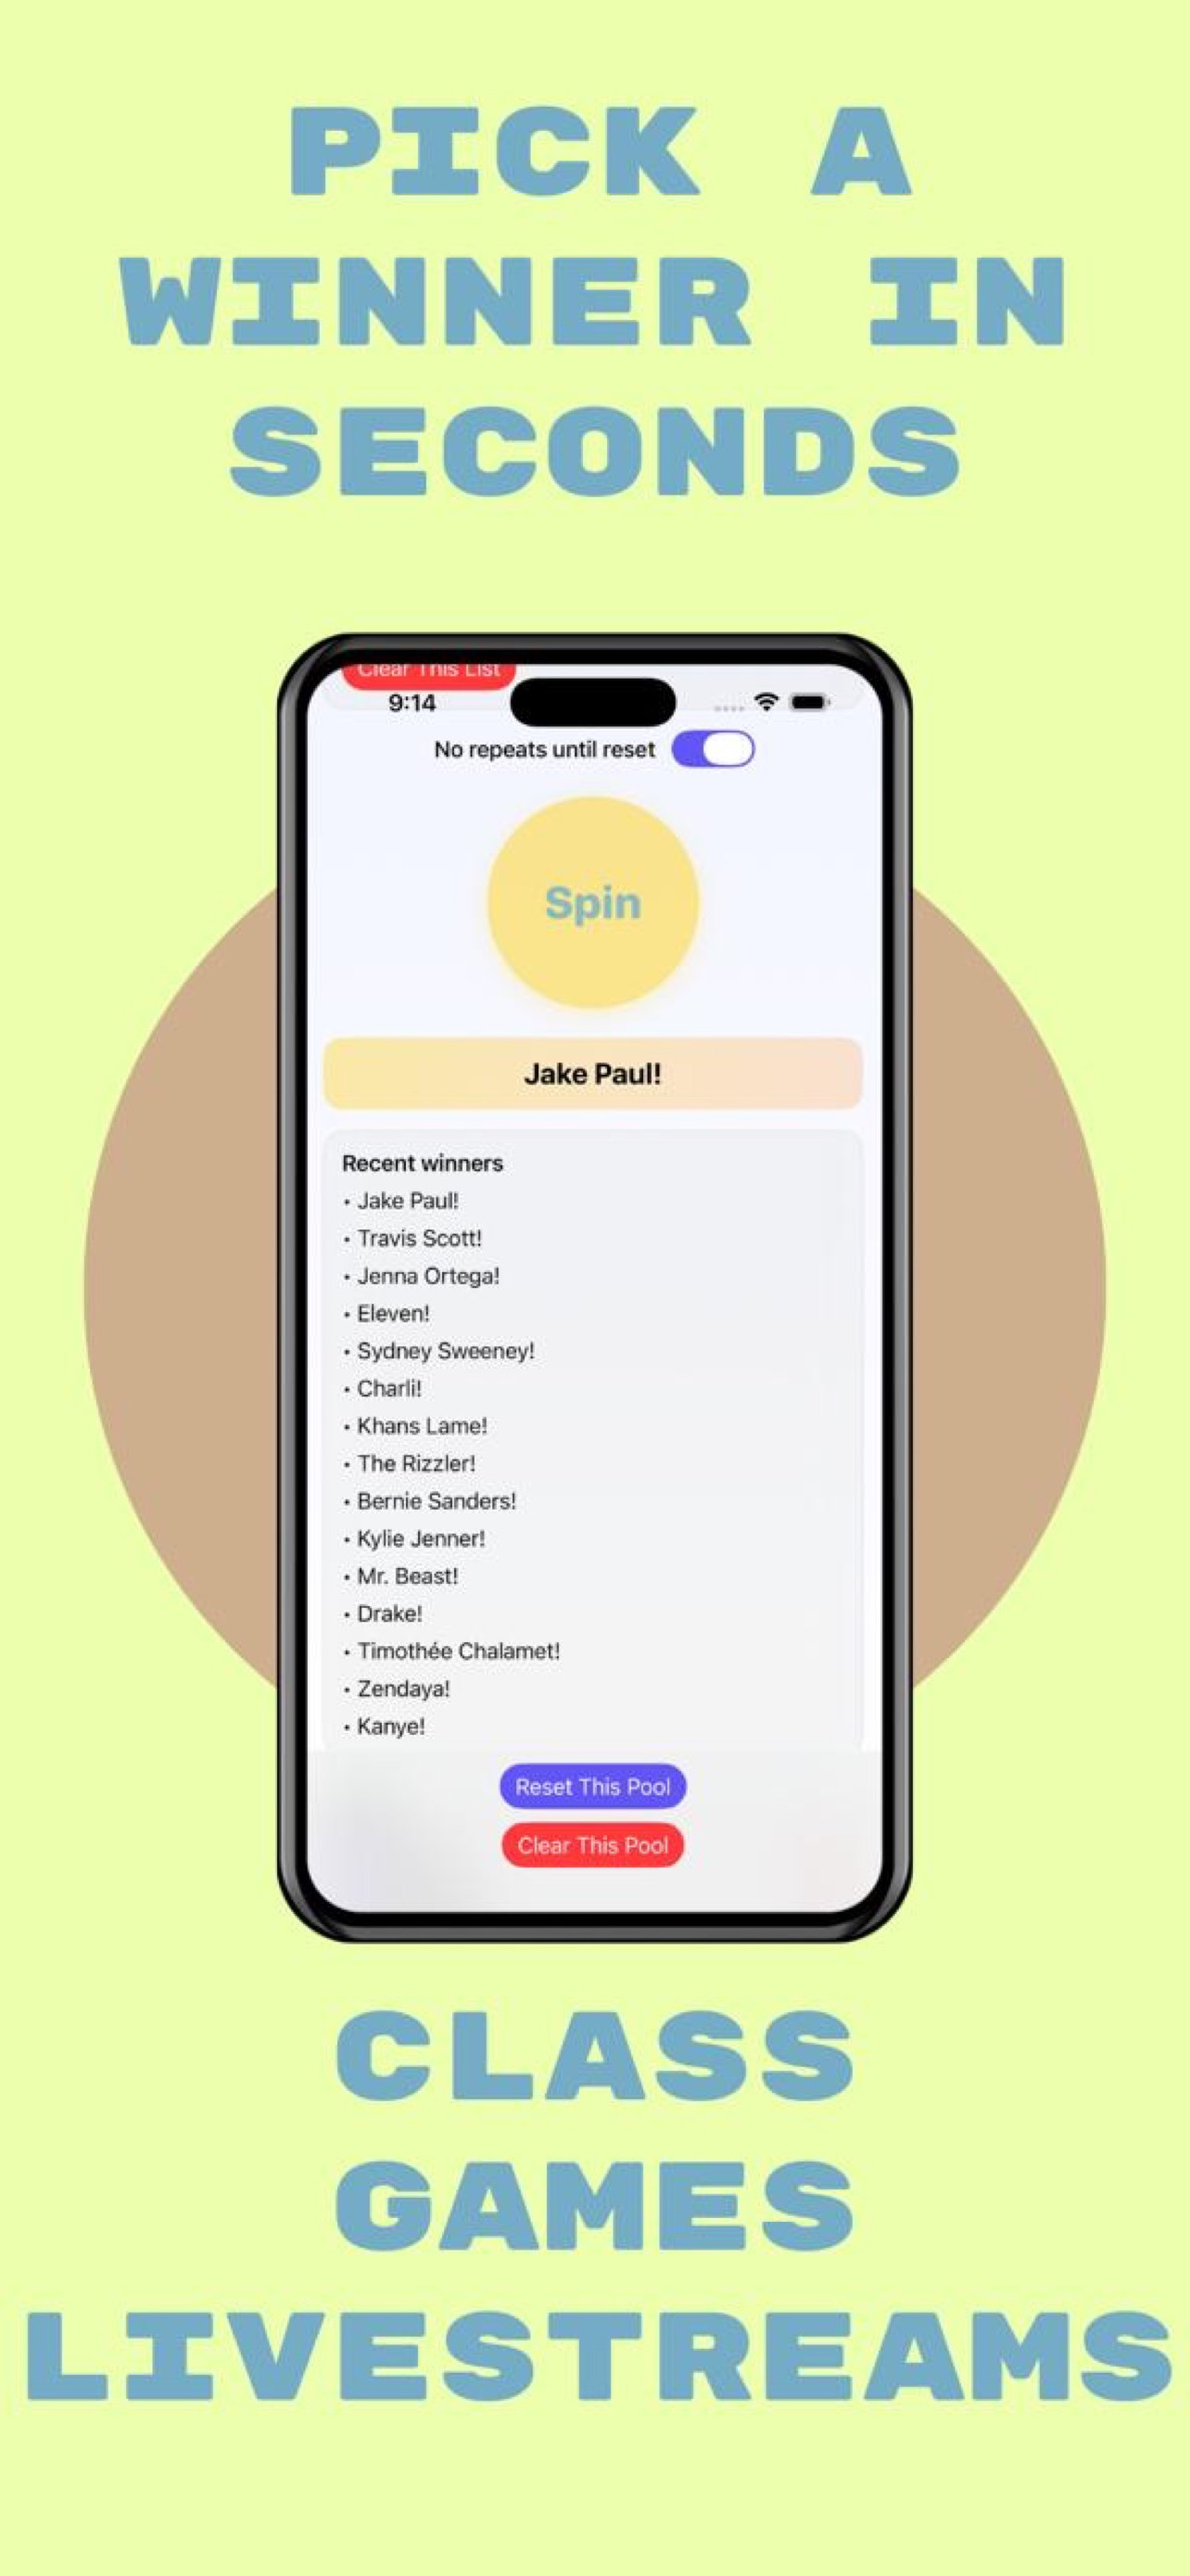
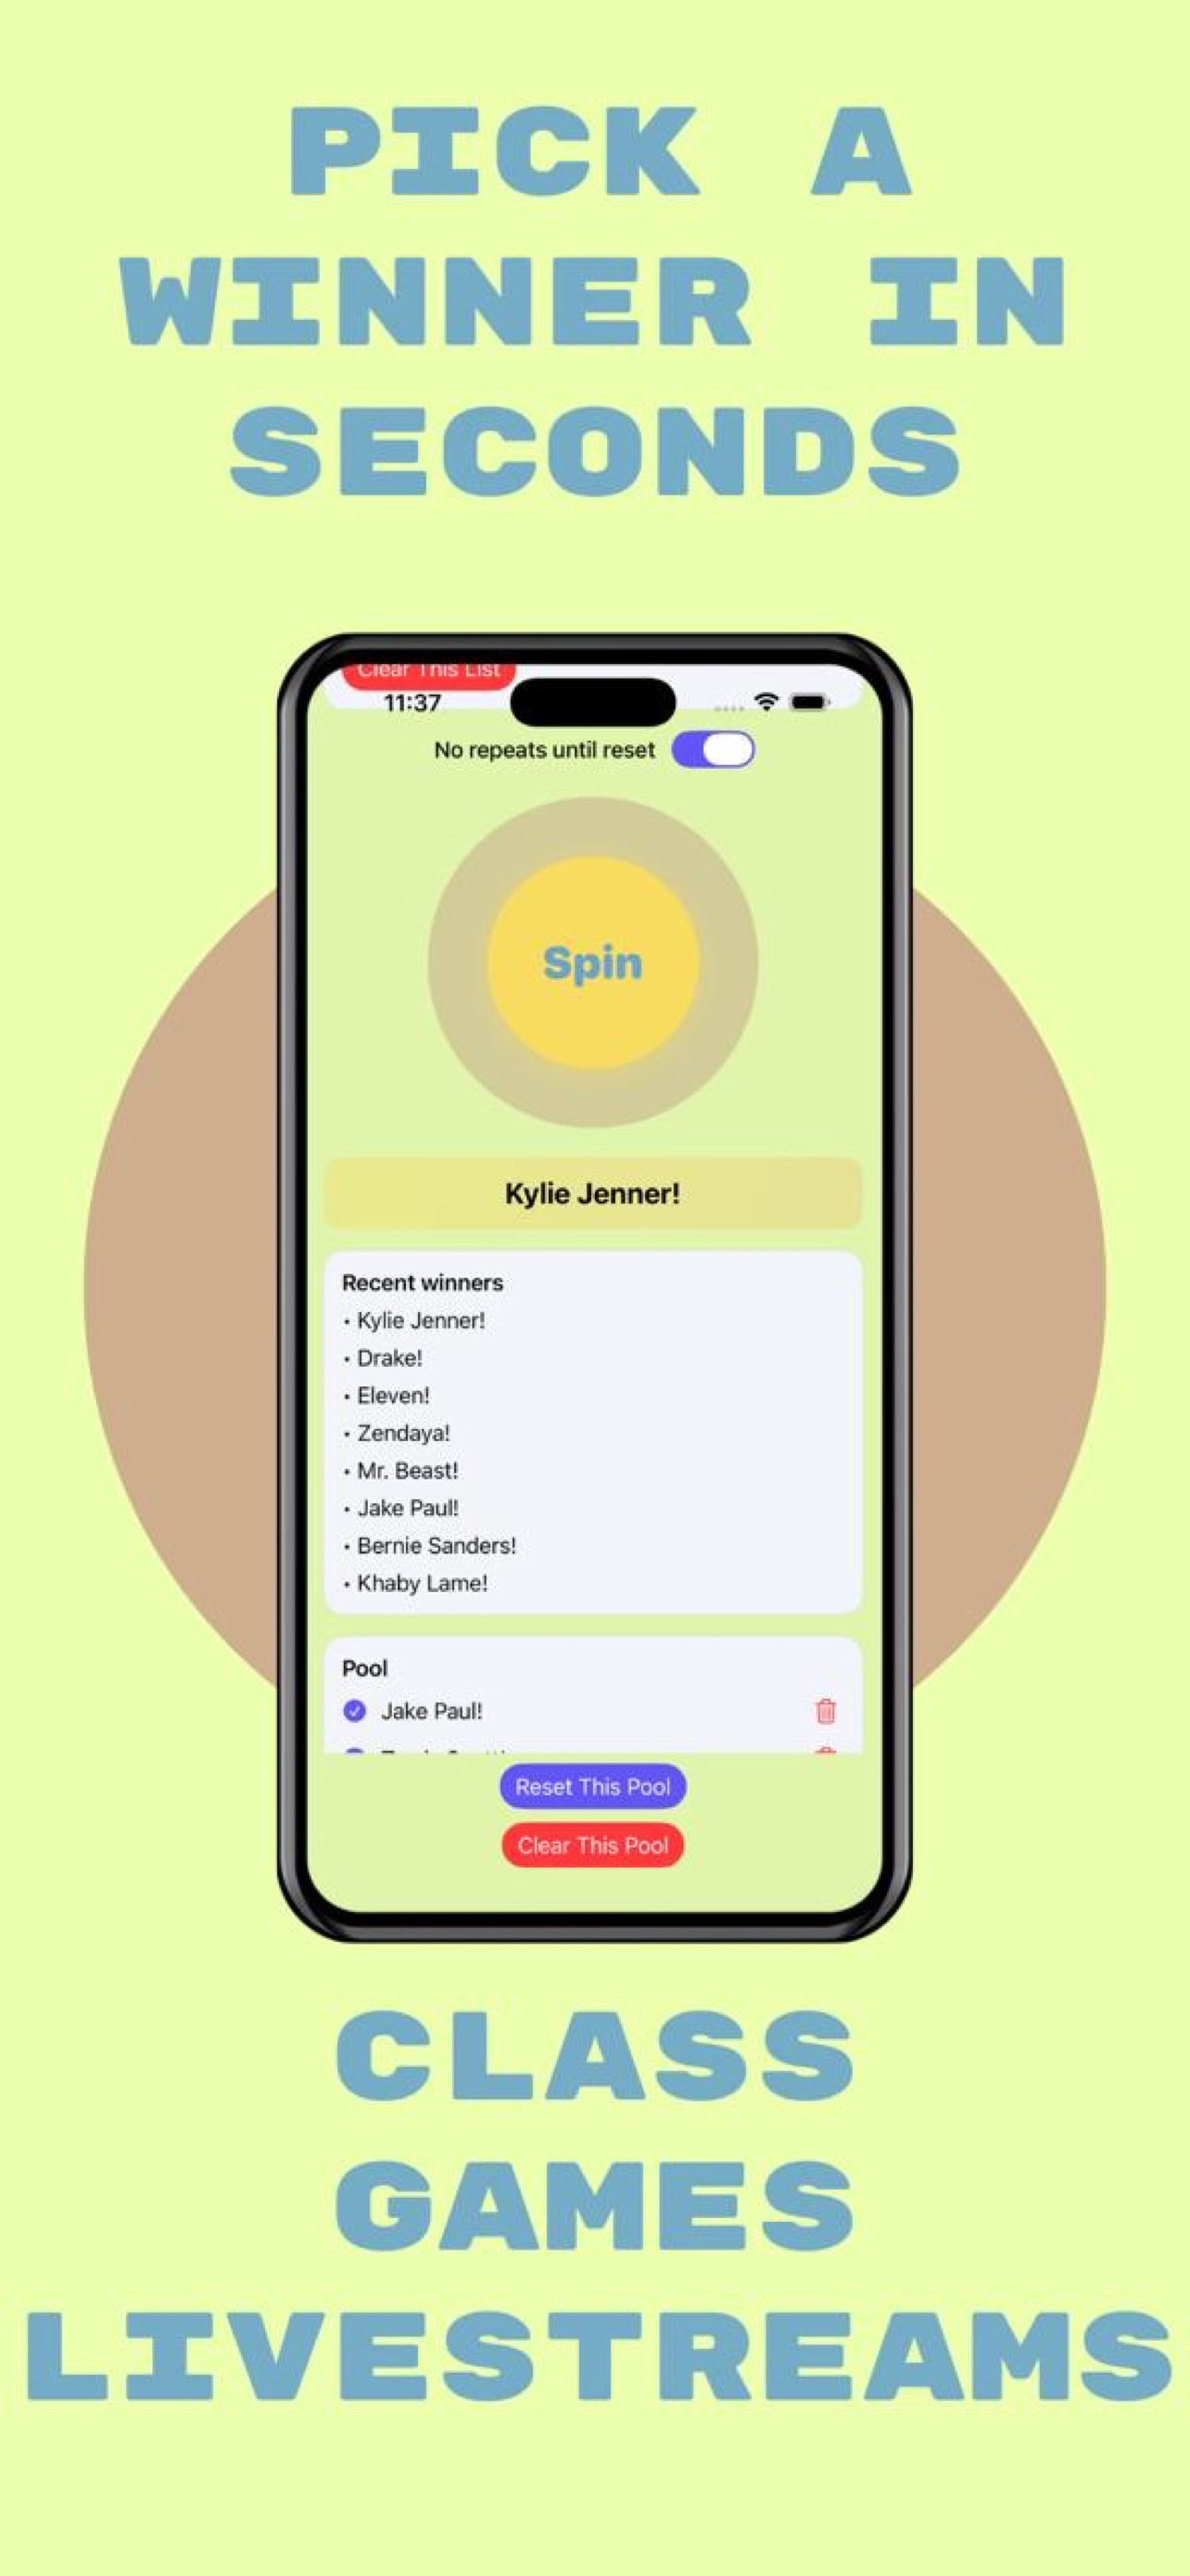
Checkpoint: custom infinite wheel implementation for further tuning

Changed region(s): [[0.2492, 0.2477, 0.7477, 0.743]]

diff --git a/NameSnap/ContentView.swift b/NameSnap/ContentView.swift
@@ -115,13 +115,10 @@ final class NameSnapViewModel: ObservableObject {
         return entries.filter { $0.isIncluded && !pickedIds.contains($0.id) }
     }
 
-    var wheelRepeatCount: Int { 40 }
+    // Very large repeat depth so furious swipe sessions never visibly hit hard ends.
+    var wheelRepeatCount: Int { 1 }
 
-    var wheelEntries: [NameEntry] {
-        let base = availableEntries
-        guard !base.isEmpty else { return [] }
-        return Array(repeating: base, count: wheelRepeatCount).flatMap { $0 }
-    }
+    var wheelEntries: [NameEntry] { availableEntries }
 
     private func nextDrawNumber() -> Int {
         (entries.map(\.drawNumber).max() ?? 0) + 1
@@ -168,12 +165,12 @@ final class NameSnapViewModel: ObservableObject {
     func currentWheelEntry() -> NameEntry? {
         let base = availableEntries
         guard !base.isEmpty else { return nil }
-        let safe = ((wheelIndex % base.count) + base.count) % base.count
+        let safe = max(0, min(wheelIndex, base.count - 1))
         return base[safe]
     }
 
     func spinWheelForward(step: Int) {
-        let total = wheelEntries.count
+        let total = availableEntries.count
         guard total > 0 else { return }
         wheelIndex = (wheelIndex + max(step, 1)) % total
     }
@@ -184,20 +181,7 @@ final class NameSnapViewModel: ObservableObject {
             wheelIndex = 0
             return
         }
-
-        let total = baseCount * wheelRepeatCount
-        var normalized = wheelIndex
-        if normalized < 0 { normalized = ((normalized % total) + total) % total }
-        if normalized >= total { normalized = normalized % total }
-
-        let needsRecentering = forceCenter || normalized < baseCount || normalized > (total - baseCount - 1)
-        if needsRecentering {
-            let midChunk = (wheelRepeatCount / 2) * baseCount
-            let offsetInChunk = normalized % baseCount
-            wheelIndex = midChunk + offsetInChunk
-        } else {
-            wheelIndex = normalized
-        }
+        wheelIndex = max(0, min(wheelIndex, baseCount - 1))
     }
 
     @discardableResult
@@ -352,6 +336,10 @@ struct ContentView: View {
             return .custom("Rubik Mono One", size: size)
         }
         return .system(size: size, weight: .black, design: .rounded)
+    }
+
+    private func dismissKeyboard() {
+        UIApplication.shared.sendAction(#selector(UIResponder.resignFirstResponder), to: nil, from: nil, for: nil)
     }
 
     private func showBigAlert(_ text: String) {
@@ -512,6 +500,7 @@ struct ContentView: View {
                                 }
 
                                 Button("Add These Names to Pool") {
+                                    dismissKeyboard()
                                     let added = vm.addNamesFromInput()
                                     guard added > 0 else { return }
                                     showBigAlert("✅ Names Added")
@@ -528,6 +517,7 @@ struct ContentView: View {
                                 .scaleEffect(pulseAddButton ? 0.96 : 1)
 
                                 Button("Undo Last Add") {
+                                    dismissKeyboard()
                                     let removed = vm.undoLastAdd()
                                     guard removed > 0 else { return }
                                     showBigAlert("↩ Undid \(removed)")
@@ -537,6 +527,7 @@ struct ContentView: View {
                                 .font(titleFamilyFont(size: 13))
 
                                 Button("Clear This List") {
+                                    dismissKeyboard()
                                     vm.clearInputList()
                                     showBigAlert("🧹 List Cleared")
                                 }
@@ -574,6 +565,7 @@ struct ContentView: View {
 
                         if vm.visualMode == .classic {
                             Button {
+                                dismissKeyboard()
                                 vm.spin()
                             } label: {
                                 ZStack {
@@ -609,6 +601,7 @@ struct ContentView: View {
                                     .frame(height: 140)
 
                                     Button(vm.isSpinning ? "Spinning" : "Spin Wheel") {
+                                        dismissKeyboard()
                                         isButtonWheelSpin = true
                                         suppressWheelSettle = true
                                         vm.spin()
@@ -703,7 +696,7 @@ struct ContentView: View {
             .overlay {
                 if showWinnerFlash {
                     flashColors[flashIndex % flashColors.count]
-                        .opacity(0.28)
+                        .opacity(0.14)
                         .ignoresSafeArea()
                         .transition(.opacity)
                 }
@@ -830,11 +823,17 @@ struct ContentView: View {
             }
             .overlay(alignment: .bottom) {
                 VStack(spacing: 10) {
-                    Button("Reset This Pool") { showResetPoolConfirm = true }
+                    Button("Reset This Pool") {
+                        dismissKeyboard()
+                        showResetPoolConfirm = true
+                    }
                         .buttonStyle(.borderedProminent)
                         .tint(.indigo)
                         .font(titleFamilyFont(size: 14))
-                    Button("Clear This Pool") { showClearPoolConfirm = true }
+                    Button("Clear This Pool") {
+                        dismissKeyboard()
+                        showClearPoolConfirm = true
+                    }
                         .buttonStyle(.borderedProminent)
                         .tint(.red)
                         .font(titleFamilyFont(size: 14))
@@ -845,29 +844,28 @@ struct ContentView: View {
                 .background(NSTheme.bg)
                 .ignoresSafeArea(edges: .bottom)
             }
+            .scrollDismissesKeyboard(.interactively)
+            .onTapGesture { dismissKeyboard() }
             .onChange(of: vm.wheelIndex) { _ in
                 guard vm.visualMode == .wheel else { return }
                 vm.normalizeWheelIndexIfNeeded()
-                if let current = vm.currentWheelEntry() {
-                    vm.selectedName = current.name
+                if let current = vm.currentWheelEntry(), (vm.isSpinning || isWheelSwipeSession) {
+                    vm.selectedName = "\(current.drawNumber). \(current.name)"
                 }
                 guard !vm.isSpinning, !isButtonWheelSpin, !suppressWheelSettle else { return }
 
-                // Manual swipe spin: commit winner when wheel settles.
-                if !isWheelSwipeSession {
-                    isWheelSwipeSession = true
-                }
+                if !isWheelSwipeSession { isWheelSwipeSession = true }
 
                 wheelSettleWorkItem?.cancel()
                 let settle = DispatchWorkItem {
                     isWheelSwipeSession = false
                     guard !suppressWheelSettle else { return }
-                    guard let winnerName = vm.commitCurrentWheelSelectionAsWinner() else { return }
+                    guard vm.commitCurrentWheelSelectionAsWinner() != nil else { return }
                     didShowWinnerForCurrentSpin = true
-                    triggerWinnerEffects(name: winnerName)
+                    triggerWinnerEffects(name: vm.selectedName)
                 }
                 wheelSettleWorkItem = settle
-                DispatchQueue.main.asyncAfter(deadline: .now() + 0.75, execute: settle)
+                DispatchQueue.main.asyncAfter(deadline: .now() + 0.22, execute: settle)
             }
             .onChange(of: vm.availableEntries.map(\.id)) { _ in
                 suppressWheelSettle = true
@@ -898,6 +896,7 @@ struct ContentView: View {
                     }
                 }
             }
+            .preferredColorScheme(.light)
             .navigationBarHidden(true)
         }
     }
@@ -916,6 +915,38 @@ struct ContentView: View {
     }
 }
 
+
+
+
+
+private final class WheelRowCell: UITableViewCell {
+    static let reuseId = "WheelRowCell"
+    private let label = UILabel()
+
+    override init(style: UITableViewCell.CellStyle, reuseIdentifier: String?) {
+        super.init(style: style, reuseIdentifier: reuseIdentifier)
+        selectionStyle = .none
+        backgroundColor = .clear
+        contentView.backgroundColor = .clear
+        label.translatesAutoresizingMaskIntoConstraints = false
+        label.textAlignment = .center
+        label.font = .preferredFont(forTextStyle: .body)
+        label.textColor = .label
+        contentView.addSubview(label)
+        NSLayoutConstraint.activate([
+            label.leadingAnchor.constraint(equalTo: contentView.leadingAnchor, constant: 12),
+            label.trailingAnchor.constraint(equalTo: contentView.trailingAnchor, constant: -12),
+            label.topAnchor.constraint(equalTo: contentView.topAnchor),
+            label.bottomAnchor.constraint(equalTo: contentView.bottomAnchor),
+        ])
+    }
+
+    required init?(coder: NSCoder) { fatalError("init(coder:) has not been implemented") }
+
+    func configure(text: String) {
+        label.text = text
+    }
+}
 
 private struct InlineTrashTextView: UIViewRepresentable {
     @Binding var text: String
@@ -1155,15 +1186,16 @@ private final class InlineInputRowCell: UITableViewCell {
 
     override init(style: UITableViewCell.CellStyle, reuseIdentifier: String?) {
         super.init(style: style, reuseIdentifier: reuseIdentifier)
+        selectionStyle = .none
         backgroundColor = .clear
         contentView.backgroundColor = .clear
 
         numberLabel.font = .preferredFont(forTextStyle: .body)
-        numberLabel.textColor = .secondaryLabel
+        numberLabel.textColor = .darkGray
         numberLabel.textAlignment = .right
 
         textField.font = .preferredFont(forTextStyle: .body)
-        textField.textColor = .label
+        textField.textColor = .black
         textField.borderStyle = .none
         textField.autocorrectionType = .no
         textField.returnKeyType = .default
@@ -1202,7 +1234,14 @@ private final class InlineInputRowCell: UITableViewCell {
 
     func configure(number: Int, text: String, isPlaceholderRow: Bool) {
         numberLabel.text = "\(number)."
-        textField.placeholder = isPlaceholderRow ? "Type or paste names here…" : nil
+        if isPlaceholderRow {
+            textField.attributedPlaceholder = NSAttributedString(
+                string: "Type or paste names here…",
+                attributes: [.foregroundColor: UIColor.darkGray]
+            )
+        } else {
+            textField.attributedPlaceholder = nil
+        }
         textField.text = text
         trashButton.isHidden = isPlaceholderRow
     }
@@ -1211,6 +1250,100 @@ private final class InlineInputRowCell: UITableViewCell {
     @objc private func textChanged() { onTextChanged?(textField.text ?? "") }
 }
 
+
+
+private struct InfiniteWheelPicker: UIViewRepresentable {
+    let entries: [NameEntry]
+    @Binding var selectedLogicalIndex: Int
+    var onSettle: (Int) -> Void
+
+    private let virtualRows = 100_000
+
+    func makeCoordinator() -> Coordinator { Coordinator(self) }
+
+    func makeUIView(context: Context) -> UIPickerView {
+        let picker = UIPickerView()
+        picker.delegate = context.coordinator
+        picker.dataSource = context.coordinator
+        context.coordinator.pickerView = picker
+        context.coordinator.syncSelection(animated: false)
+        return picker
+    }
+
+    func updateUIView(_ uiView: UIPickerView, context: Context) {
+        let previousCount = context.coordinator.parent.entries.count
+        let previousIndex = context.coordinator.parent.selectedLogicalIndex
+
+        context.coordinator.parent = self
+
+        if previousCount != entries.count {
+            uiView.reloadAllComponents()
+            context.coordinator.syncSelection(animated: false)
+            return
+        }
+
+        if previousIndex != selectedLogicalIndex {
+            context.coordinator.syncSelection(animated: false)
+        }
+    }
+
+    final class Coordinator: NSObject, UIPickerViewDelegate, UIPickerViewDataSource {
+        var parent: InfiniteWheelPicker
+        weak var pickerView: UIPickerView?
+
+        init(_ parent: InfiniteWheelPicker) { self.parent = parent }
+
+        func numberOfComponents(in pickerView: UIPickerView) -> Int { 1 }
+
+        func pickerView(_ pickerView: UIPickerView, numberOfRowsInComponent component: Int) -> Int {
+            max(parent.virtualRows, max(parent.entries.count, 1))
+        }
+
+        func pickerView(_ pickerView: UIPickerView, rowHeightForComponent component: Int) -> CGFloat { 34 }
+
+        func pickerView(_ pickerView: UIPickerView, viewForRow row: Int, forComponent component: Int, reusing view: UIView?) -> UIView {
+            let label = (view as? UILabel) ?? UILabel()
+            label.textAlignment = .center
+            label.font = UIFont.preferredFont(forTextStyle: .body)
+            label.textColor = .label
+            if parent.entries.isEmpty {
+                label.text = ""
+            } else {
+                let logical = ((row % parent.entries.count) + parent.entries.count) % parent.entries.count
+                let item = parent.entries[logical]
+                label.text = "\(item.drawNumber). \(item.name)"
+            }
+            return label
+        }
+
+        func pickerView(_ pickerView: UIPickerView, didSelectRow row: Int, inComponent component: Int) {
+            guard !parent.entries.isEmpty else { return }
+            let logical = ((row % parent.entries.count) + parent.entries.count) % parent.entries.count
+            if parent.selectedLogicalIndex != logical {
+                parent.selectedLogicalIndex = logical
+            }
+            parent.onSettle(logical)
+
+            // Silent recenter to keep infinite feel smooth.
+            let mid = parent.virtualRows / 2
+            let target = mid - (mid % parent.entries.count) + logical
+            if abs(row - target) > parent.entries.count * 4 {
+                pickerView.selectRow(target, inComponent: 0, animated: false)
+            }
+        }
+
+        func syncSelection(animated: Bool) {
+            guard let picker = pickerView else { return }
+            guard !parent.entries.isEmpty else { return }
+            let safe = max(0, min(parent.selectedLogicalIndex, parent.entries.count - 1))
+            let mid = parent.virtualRows / 2
+            let target = mid - (mid % parent.entries.count) + safe
+            if picker.selectedRow(inComponent: 0) != target {
+                picker.selectRow(target, inComponent: 0, animated: animated)
+            }
+        }
+    }
+}
 
 #Preview {
     ContentView()
